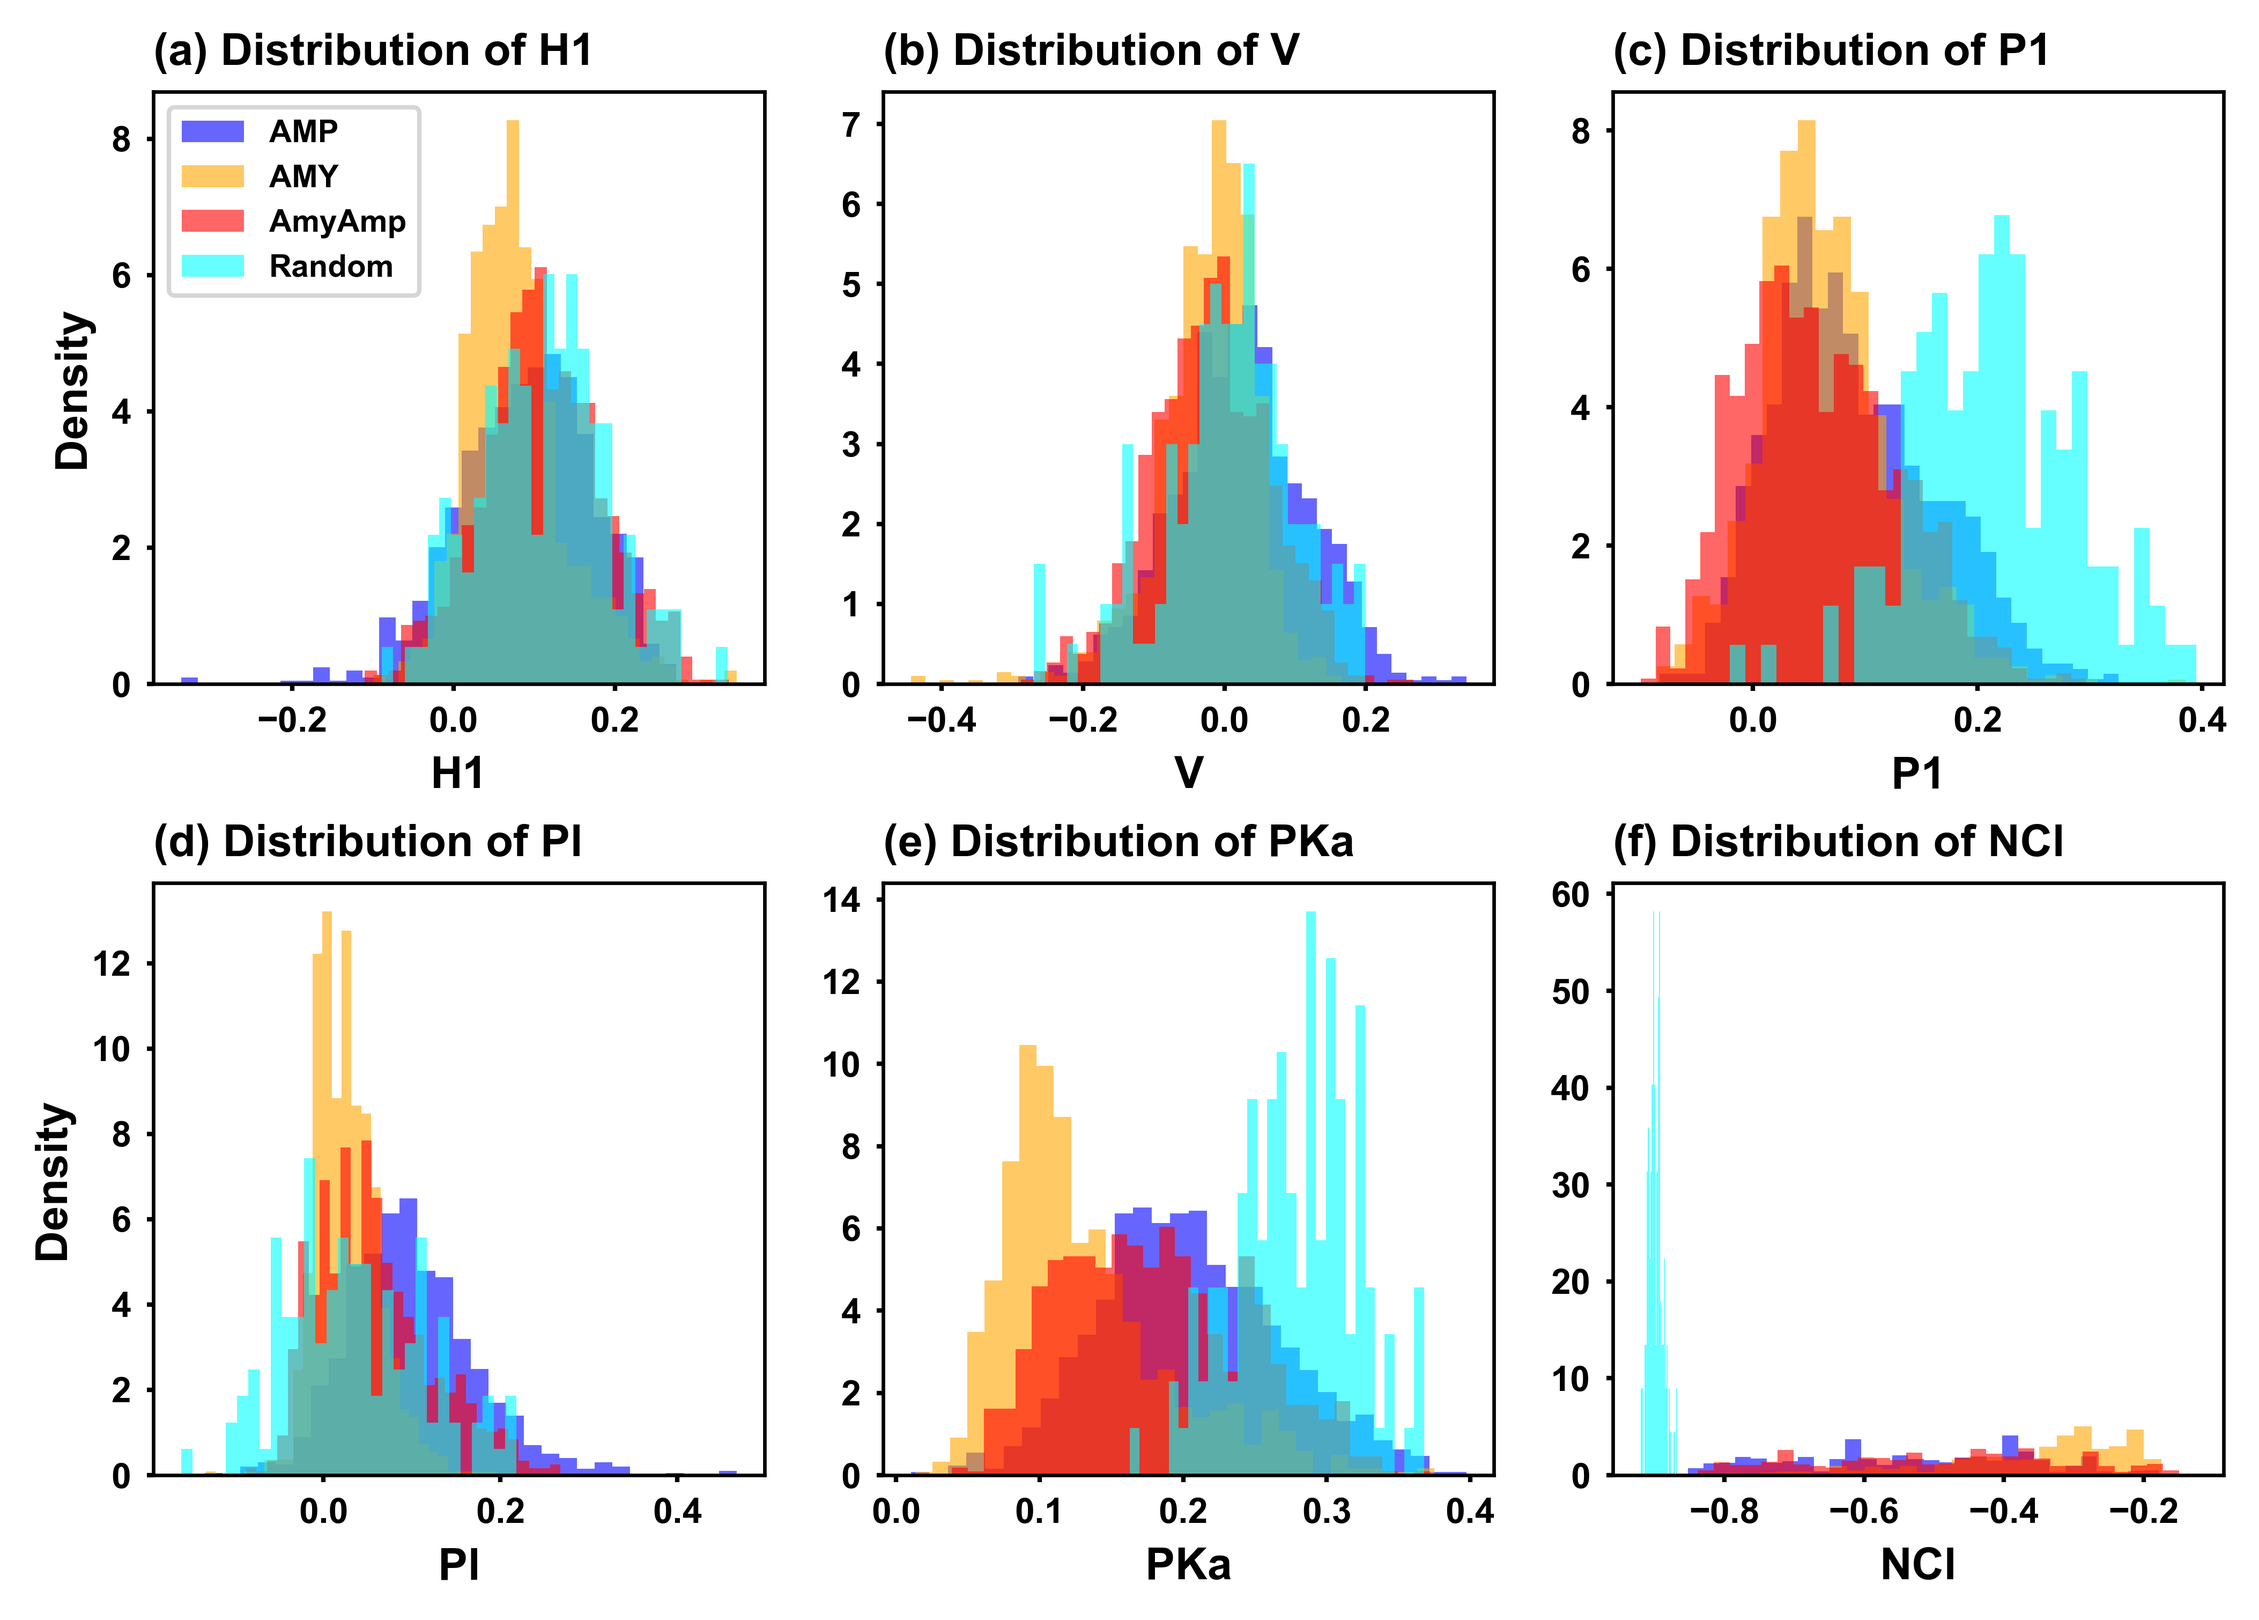
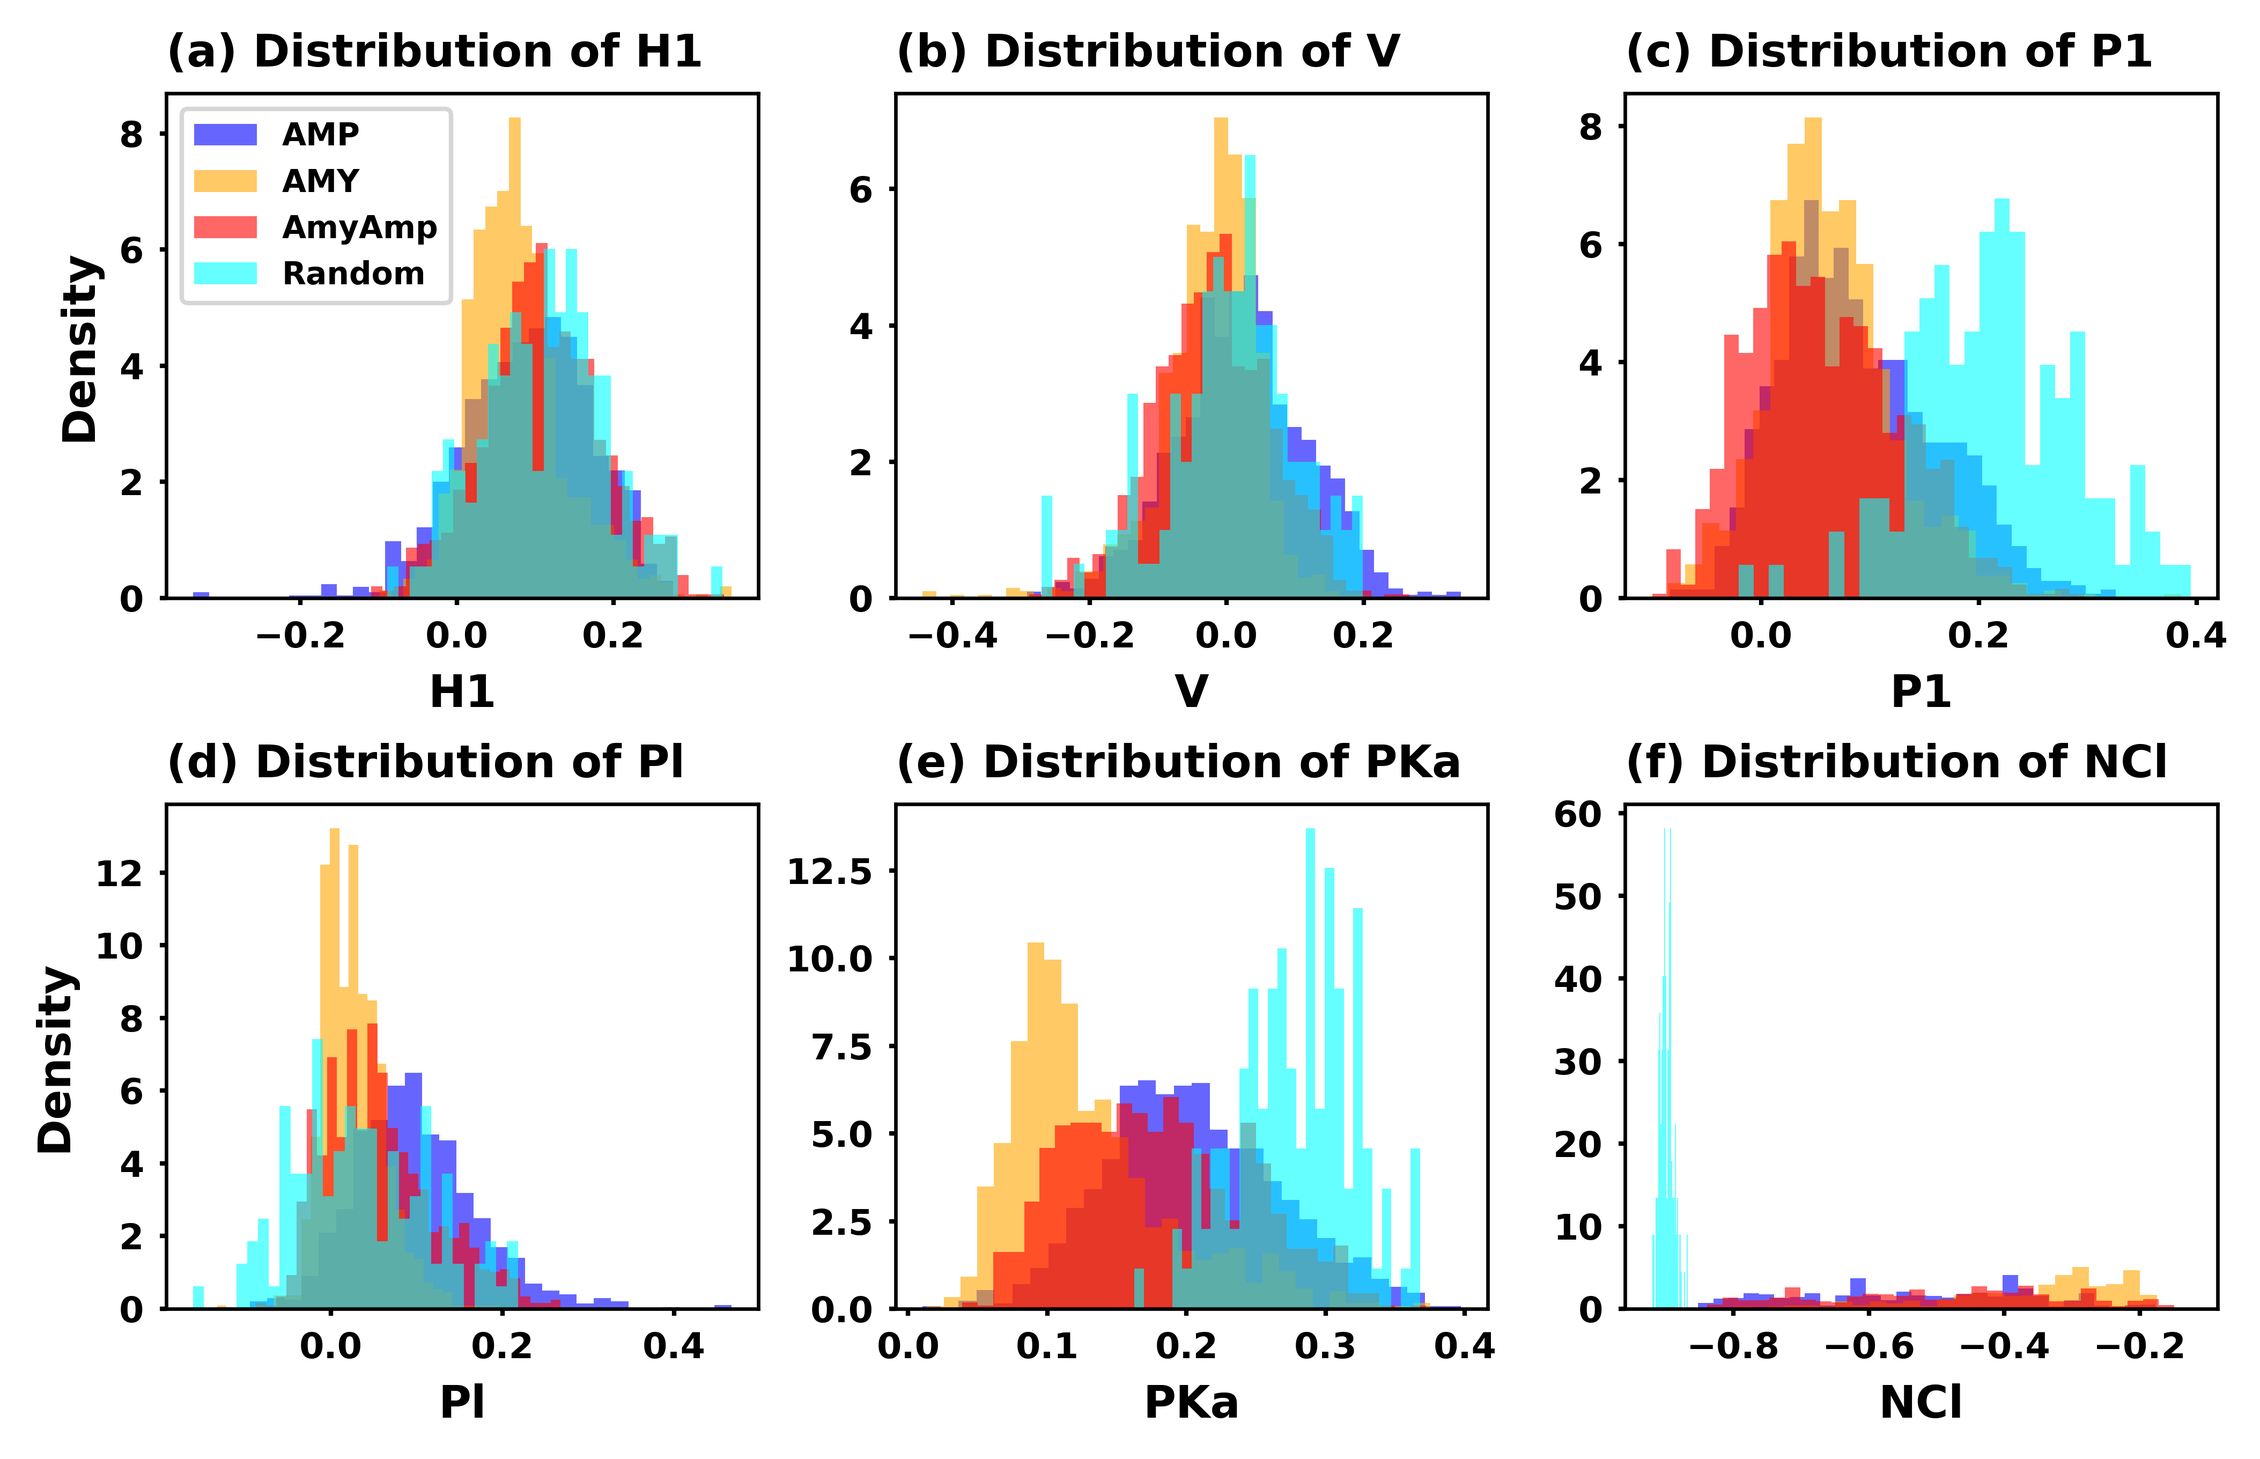
updated

diff --git a/scripts/tSNE.py b/scripts/tSNE.py
@@ -324,7 +324,7 @@ def density_plots(embedded_data, group_sizes, group_labels, filename_base):
     reshaped_data = embedded_data.reshape(-1, 30 , 6)
     avg_features = np.mean(reshaped_data, axis=1)  # Average over sequence length
     
-    fig, axes = plt.subplots(2, 3, figsize=(7, 5), dpi=600)
+    fig, axes = plt.subplots(2, 3, figsize=(7, 4.5), dpi=600)
     axes = axes.flatten()
     
     subplot_labels = ['(a)', '(b)', '(c)', '(d)', '(e)', '(f)']
